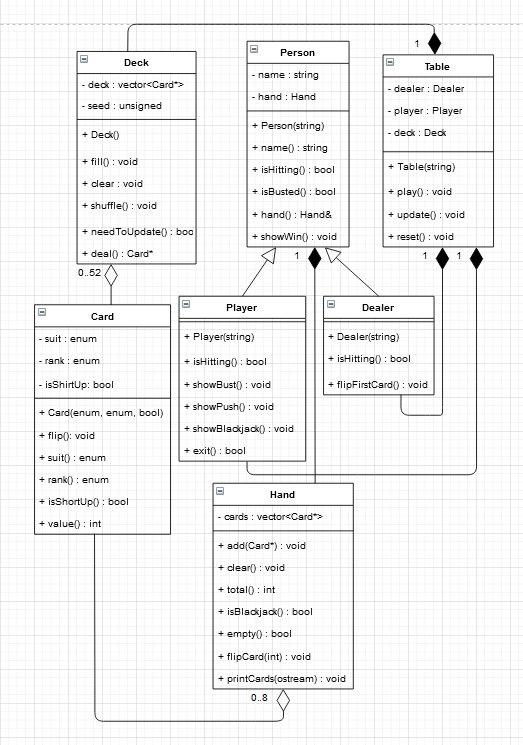
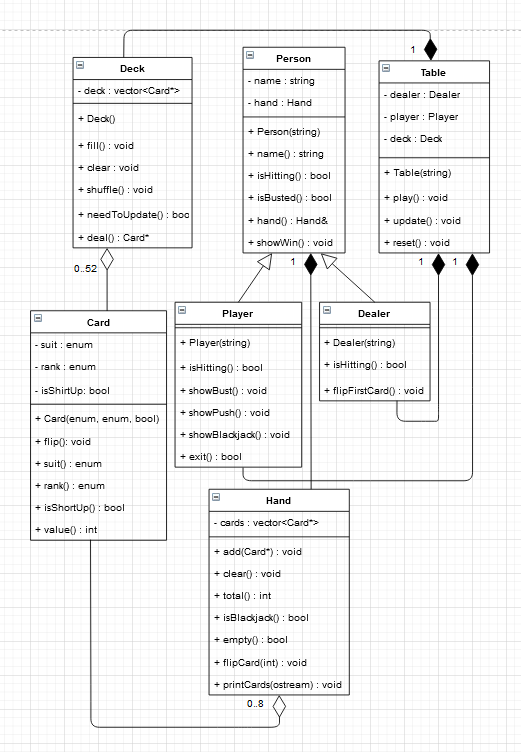
Code refactoring

Changed region(s): [[0.0614, 0.0309, 0.952, 0.9879], [0.952, 0.0309, 0.9827, 0.0617]]

diff --git a/deck.cpp b/deck.cpp
@@ -2,7 +2,6 @@
 
 Deck::Deck()
 {
-   m_seed = static_cast<unsigned>(std::chrono::system_clock::now().time_since_epoch().count());
    fill();
 }
 
@@ -24,7 +23,8 @@ void Deck::clear()
 
 void Deck::shuffle()
 {
-   std::shuffle(m_deck.begin(), m_deck.end(), std::default_random_engine(m_seed));
+   unsigned seed = static_cast<unsigned>(std::chrono::system_clock::now().time_since_epoch().count());
+   std::shuffle(m_deck.begin(), m_deck.end(), std::default_random_engine(seed));
 }
 
 bool Deck::needToUpdate() const

diff --git a/table.cpp b/table.cpp
@@ -57,8 +57,6 @@ void Table::play()
 
       if (m_player.hand().isBlackjack())
       {
-         m_dealer.flipFirstCard();
-         update();
          m_player.showBlackjack();
          state = m_player.exit();
          reset();
@@ -86,7 +84,6 @@ void Table::play()
          }
       }
 
-      update();
       if (m_player.isBusted())
       {
          m_player.showBust();

diff --git a/deck.h b/deck.h
@@ -22,6 +22,5 @@ public:
    std::unique_ptr<Card> deal();
 private:
    Cards m_deck;
-   unsigned m_seed;
 };
 
